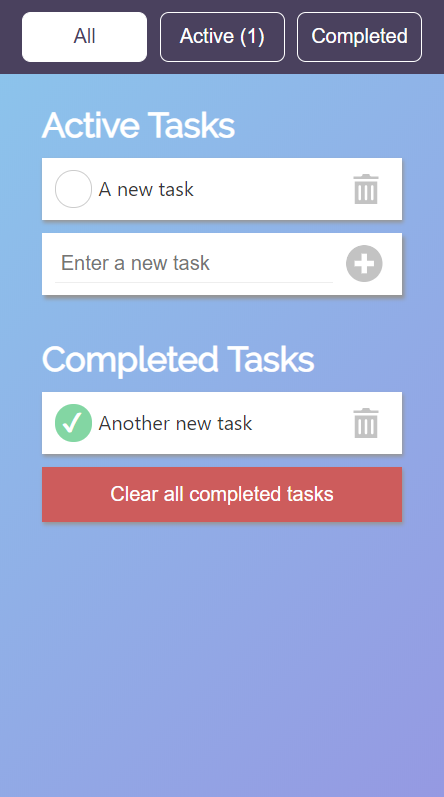
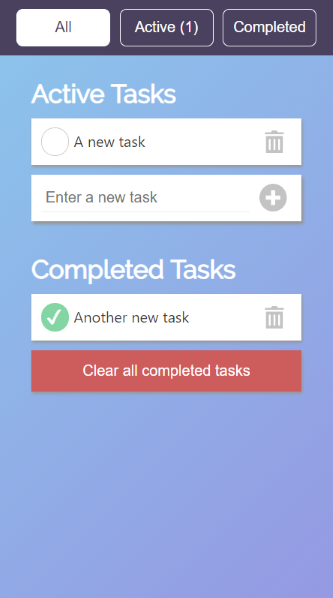
Fixed screenshot

diff --git a/README.md b/README.md
@@ -1,7 +1,9 @@
 # Todo List
 This is a simple todo app built on the MERN stack.
 
-![Preview of the Todo List app](https://github.com/zacharytscott/todo/blob/master/img/main.PNG "The Todo List app")
+<div align="middle">
+<img src="https://github.com/zacharytscott/todo/blob/master/img/main.PNG" title="The Todo List app"/>
+</div>
 
 ## Table of Contents
 1. [How to build this app](#how-to-build-this-app)
